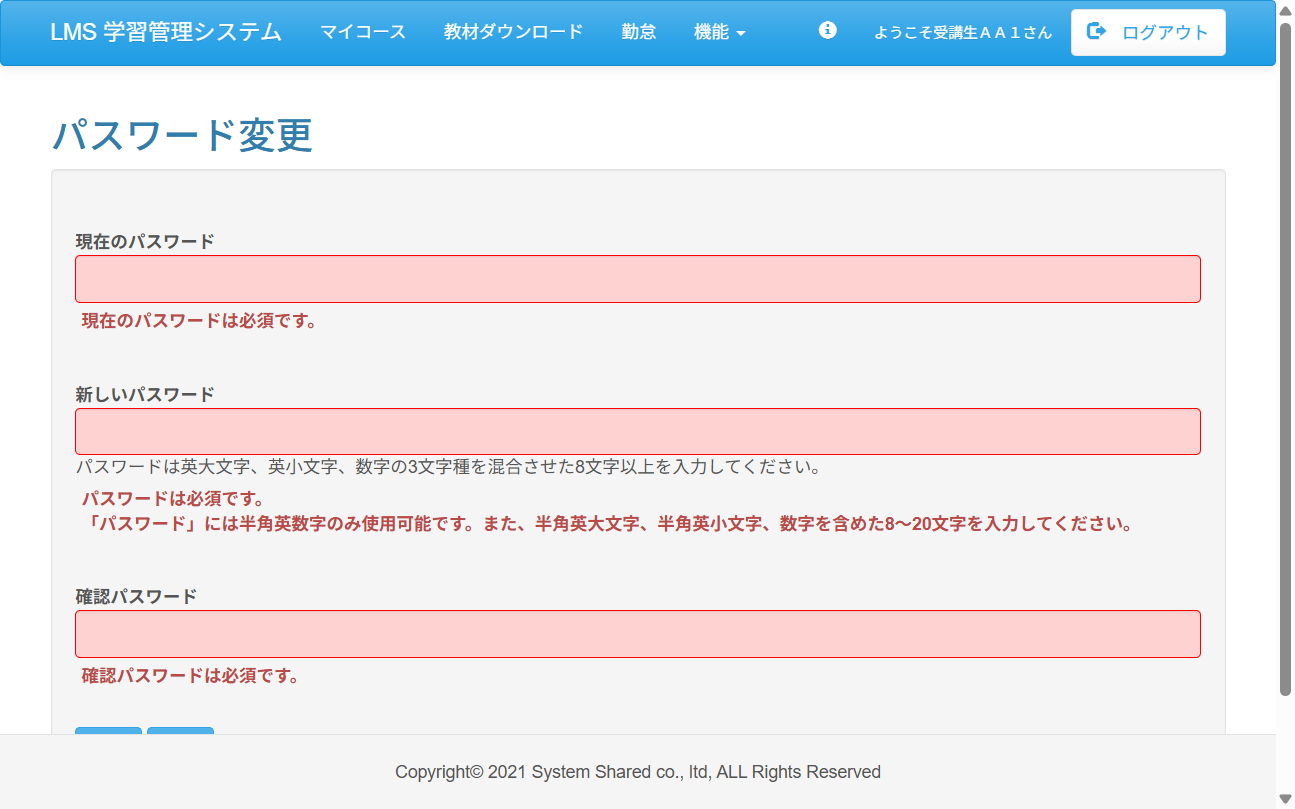
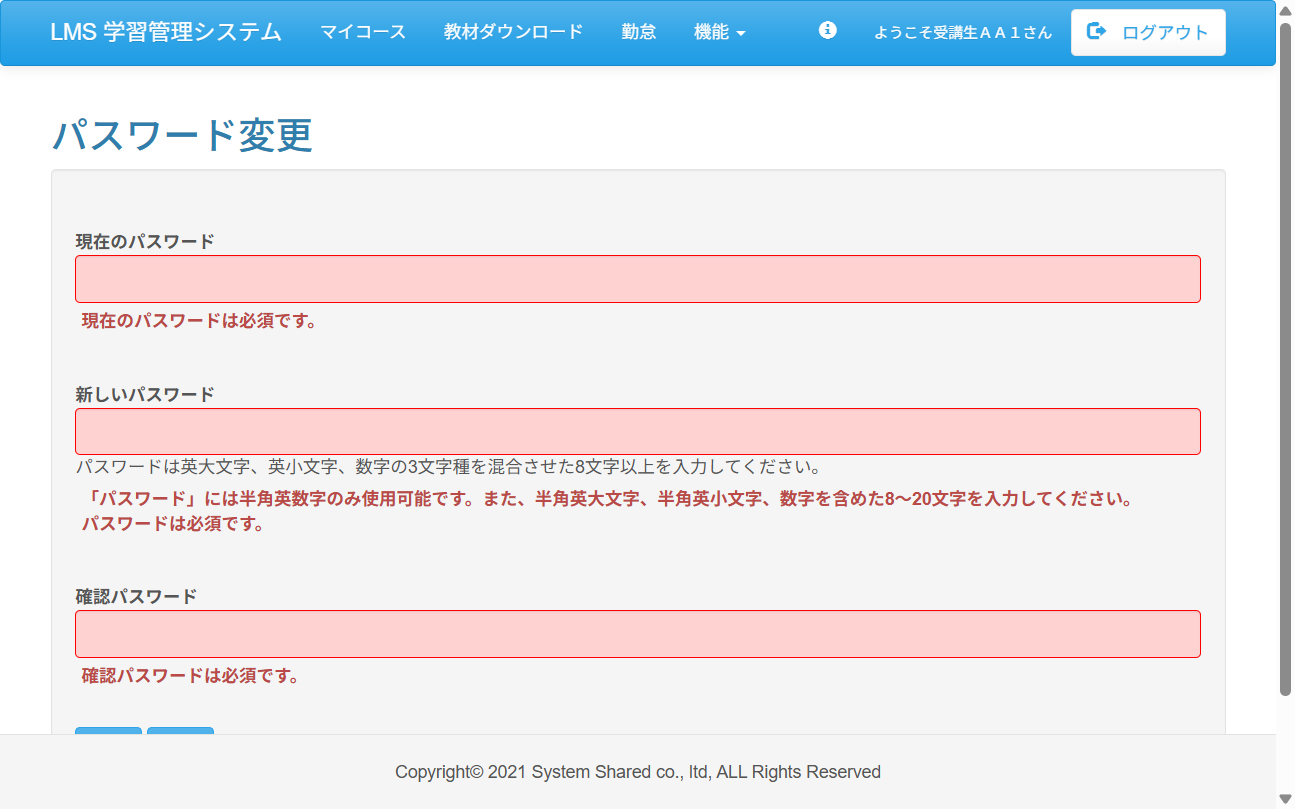
fix:Nakahira Case16 test04の不具合を修正した

Changed region(s): [[0.0618, 0.5871, 0.8649, 0.6799]]

diff --git a/test_code_creation_name/src/test/java/jp/co/sss/lms/ct/f06_login2/Case16.java b/test_code_creation_name/src/test/java/jp/co/sss/lms/ct/f06_login2/Case16.java
@@ -108,13 +108,20 @@ public class Case16 {
 
 		visibilityTimeout(By.className("error"), 10);
 		List<WebElement> errors = webDriver.findElements(By.className("error"));
+		String[] errorMsgs = errors.get(2).getText().split("\n");
 		List<WebElement> errorInputs = webDriver.findElements(By.className("errorInput"));
 
 		assertEquals("パスワード変更 | LMS", webDriver.getTitle());
 		//一つ目の要素が空のspanタグとなっているため、二つ目から検証する
 		assertEquals("現在のパスワードは必須です。", errors.get(1).getText());
-		//assertEquals("パスワードは必須です。\r\n「パスワード」には半角英数字のみ使用可能です。また、半角英大文字、半角英小文字、数字を含めた8～20文字を入力してください。",
-		//		errors.get(2).getText());
+		//二つのエラーメッセージがランダムな順で結合されているため
+		for (String errorMsg : errorMsgs) {
+			if (errorMsg.length() > 20) {
+				assertEquals("「パスワード」には半角英数字のみ使用可能です。また、半角英大文字、半角英小文字、数字を含めた8～20文字を入力してください。", errorMsg);
+			} else {
+				assertEquals("パスワードは必須です。", errorMsg);
+			}
+		}
 		assertEquals("確認パスワードは必須です。", errors.get(3).getText());
 		assertEquals("currentPassword", errorInputs.get(0).getAttribute("id"));
 		assertEquals("password", errorInputs.get(1).getAttribute("id"));
